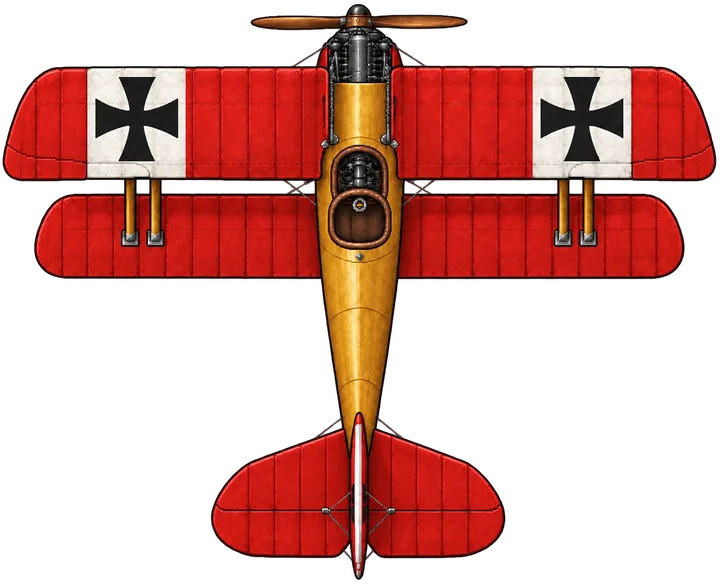
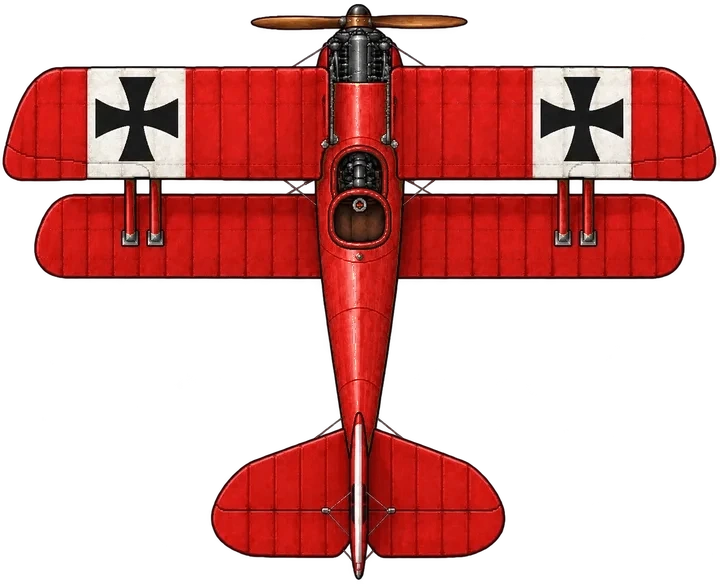
deploy-slim: sync from main 456d0ae

Changed region(s): [[0.4278, 0.1233, 0.5806, 0.7705], [0.1528, 0.3082, 0.2444, 0.4007], [0.7639, 0.3082, 0.825, 0.4007]]

diff --git a/aircraft.js b/aircraft.js
@@ -29,9 +29,9 @@ export function clearAircraftMatte(key,data,w,h){
 }
 // Approximate real wingspans in metres; drawn width scales ~ (span/8.5)^0.8 so
 // two-seaters read larger than scouts while staying inside the 144x160 canvas.
-const WINGSPAN_M={fokker:7.19,fokker_standard:7.19,fokker_f1:7.19,fokker_jacobs:7.19,nieuport11:7.52,nieuport28:8,spad12:8,sopwith:8.08,pup:8.08,se5a:8.11,mccudden_se5a:8.11,nieuport:8.16,nieuport_italian:8.16,nieuport24:8.21,nungesser_nieuport24:8.21,spad:8.25,fokkerdv:8.34,albatros_d2:8.5,camel:8.53,airco_dh2:8.61,hanriot:8.7,fokkerd7:8.9,loewenhardt_fokkerd7:8.9,albatros:9.05,albatros_d5a:9.05,baron_albatros:9.05,wolff_albatros:9.05,hansa_brandenburg_cc:9.25,pfalz_d3a:9.4,berthold_pfalz:9.4,goering_fokkerd7:8.9,collishaw_sopwith:8.08,guynemer_spad:8.25,udet_fokkerdv:8.34,baracca_nieuport:8.16,eindecker:9.52,bristol_m1:9.8,dolphin:9.91,snipe:9.13,strutter:10.21,halberstadt_duo:10.77,gunbus:11.17,morane_ai:11.21,hannover_cl3:11.7,be2c:11.28,bristol_duo:11.96,aviatik:12.4,re8:12.98,dfw_cv:13.27,dh4:13.21,fe2b:14.55,junkers_j1:16,re7:17.45,gotha:23.7,roland_d6:9.42,siemens_d4:8.35,rickenbacker_spad:8.25,ball_se5a:8.11,barker_snipe:9.13,luke_nieuport28:8,brumowski_albatros:9.05,gontermann_fokker:7.19,macchi_m5:11.9,macchi_m3:15.95,lohner_l:16.2,aeg_g4:18.4,friedrichshafen_g3:23.7,breguet14:14.36,voisin8:17.92,caudron_g4:17.2,ssw_d3:8.43,pfalz_d12:9,phonix_d1:9.75,aviatik_d1:9,junkers_d1:9,ansaldo_sva5:9.1,hb_w29:13.5,ff33:16,felixstowe_f2:29.05,shuttelanz_sl11:22.9,parseval:11.2,caquot_balloon:13.4,lothar_dr1:7.19,beaulieu_dr1:7.19,mai_dr1:7.19,hantelmann_dr1:7.19,jasta11_fokkerd7:8.9,jasta18_fokkerd7:8.9,jasta27_fokkerd7:8.9,jasta43_fokkerd7:8.9,gabriel_fokkerd7:8.9,jasta4_albatros:9.05,jasta5_albatros:9.05,jasta78b_albatros:9.05,kissenberth_albatros:9.05,allmenroder_albatros:9.05,baeumer_pfalz:9,degelow_pfalz:9,linke_crawford_phonix:9.75,kiss_phonix:9.75,arigi_aviatik:9,gotha_night:23.7,staaken_dark:42.3,brown_camel:8.53,mcelroy_camel:8.53,dazzle_camel:8.53,lufbery_nieuport17:8.16,dorme_nieuport:8.16,meulemeester_nieuport:8.16,eagle_nieuport28:8,coppens_hanriot:8.7,madon_spad:8.25,tarascon_spad:8.25,boyau_spad:8.25,hatring_spad:8.25,springs_se5a:8.11,proctor_se5a:8.11,checker_se5a:8.11,ruffo_sva5:9.1,pierozzi_macchi:11.9};
+const WINGSPAN_M={fokker:7.19,fokker_standard:7.19,fokker_f1:7.19,fokker_jacobs:7.19,nieuport11:7.52,nieuport28:8,spad12:8,sopwith:8.08,pup:8.08,se5a:8.11,mccudden_se5a:8.11,nieuport:8.16,nieuport_italian:8.16,nieuport24:8.21,nungesser_nieuport24:8.21,spad:8.25,fokkerdv:8.34,albatros_d2:8.5,camel:8.53,airco_dh2:8.61,hanriot:8.7,fokkerd7:8.9,loewenhardt_fokkerd7:8.9,albatros:9.05,albatros_d5a:9.05,baron_albatros:9.05,wolff_albatros:9.05,hansa_brandenburg_cc:9.25,pfalz_d3a:9.4,berthold_pfalz:9.4,goering_fokkerd7:8.9,collishaw_sopwith:8.08,guynemer_spad:8.25,udet_fokkerdv:8.34,baracca_nieuport:8.16,eindecker:9.52,bristol_m1:9.8,dolphin:9.91,snipe:9.13,strutter:10.21,halberstadt_duo:10.77,gunbus:11.17,morane_ai:11.21,hannover_cl3:11.7,be2c:11.28,bristol_duo:11.96,aviatik:12.4,re8:12.98,dfw_cv:13.27,dh4:13.21,fe2b:14.55,junkers_j1:16,re7:17.45,gotha:23.7,roland_d6:9.42,siemens_d4:8.35,rickenbacker_spad:8.25,ball_se5a:8.11,barker_snipe:9.13,luke_nieuport28:8,brumowski_albatros:9.05,gontermann_fokker:7.19,macchi_m5:11.9,macchi_m3:15.95,lohner_l:16.2,aeg_g4:18.4,friedrichshafen_g3:23.7,breguet14:14.36,voisin8:17.92,caudron_g4:17.2,ssw_d3:8.43,pfalz_d12:9,phonix_d1:9.75,aviatik_d1:9,junkers_d1:9,ansaldo_sva5:9.1,hb_w29:13.5,ff33:16,felixstowe_f2:29.05,shuttelanz_sl11:22.9,parseval:11.2,caquot_balloon:13.4,lothar_dr1:7.19,beaulieu_dr1:7.19,mai_dr1:7.19,hantelmann_dr1:7.19,jasta11_fokkerd7:8.9,jasta18_fokkerd7:8.9,jasta27_fokkerd7:8.9,jasta43_fokkerd7:8.9,gabriel_fokkerd7:8.9,jasta4_albatros:9.05,jasta5_albatros:9.05,jasta78b_albatros:9.05,kissenberth_albatros:9.05,allmenroder_albatros:9.05,jasta11a_albatros:9.05,jasta11b_albatros:9.05,jasta11c_albatros:9.05,jasta11d_albatros:9.05,baeumer_pfalz:9,degelow_pfalz:9,linke_crawford_phonix:9.75,kiss_phonix:9.75,arigi_aviatik:9,gotha_night:23.7,staaken_dark:42.3,brown_camel:8.53,mcelroy_camel:8.53,dazzle_camel:8.53,lufbery_nieuport17:8.16,dorme_nieuport:8.16,meulemeester_nieuport:8.16,eagle_nieuport28:8,coppens_hanriot:8.7,madon_spad:8.25,tarascon_spad:8.25,boyau_spad:8.25,hatring_spad:8.25,springs_se5a:8.11,proctor_se5a:8.11,checker_se5a:8.11,ruffo_sva5:9.1,pierozzi_macchi:11.9};
 const spriteScale=key=>WINGSPAN_M[key]==null?1:Math.min(1.18,Math.max(.8,(WINGSPAN_M[key]/8.5)**.8));
-const PAINTED_KEYS=['fokker','fokker_standard','fokker_f1','albatros','camel','sopwith','nieuport','nieuport_italian','spad12','fokkerdv','re7','fokkerd7','eindecker','se5a','bristol_duo','halberstadt_duo','baron_albatros','albatros_d2','nieuport24','pfalz_d3a','airco_dh2','spad','be2c','aviatik','strutter','nieuport11','nieuport28','hanriot','pup','dh5','re8','dh4','albatros_d5a','fokker_jacobs','goering_fokkerd7','collishaw_sopwith','guynemer_spad','udet_fokkerdv','baracca_nieuport','berthold_pfalz','siemens_d4','roland_d6','hannover_cl3','dfw_cv','junkers_j1','gotha','bristol_m1','dolphin','snipe','fe2b','gunbus','morane_ai','rickenbacker_spad','ball_se5a','barker_snipe','luke_nieuport28','brumowski_albatros','gontermann_fokker','hansa_brandenburg_cc','lohner_l','macchi_m3','macchi_m5','wolff_albatros','loewenhardt_fokkerd7','mccudden_se5a','nungesser_nieuport24','aeg_g4','friedrichshafen_g3','breguet14','voisin8','caudron_g4','ssw_d3','pfalz_d12','phonix_d1','aviatik_d1','junkers_d1','ansaldo_sva5','hb_w29','ff33','felixstowe_f2','shuttelanz_sl11','parseval','caquot_balloon','staaken','handley-page','jasta4_albatros','jasta5_albatros','jasta78b_albatros','kissenberth_albatros','allmenroder_albatros','lothar_dr1','beaulieu_dr1','mai_dr1','hantelmann_dr1','jasta11_fokkerd7','jasta18_fokkerd7','jasta43_fokkerd7','gabriel_fokkerd7','jasta27_fokkerd7','baeumer_pfalz','degelow_pfalz','linke_crawford_phonix','kiss_phonix','arigi_aviatik','gotha_night','staaken_dark','brown_camel','mcelroy_camel','dazzle_camel','lufbery_nieuport17','dorme_nieuport','meulemeester_nieuport','eagle_nieuport28','coppens_hanriot','madon_spad','tarascon_spad','boyau_spad','hatring_spad','springs_se5a','proctor_se5a','checker_se5a','ruffo_sva5','pierozzi_macchi'];
+const PAINTED_KEYS=['fokker','fokker_standard','fokker_f1','albatros','camel','sopwith','nieuport','nieuport_italian','spad12','fokkerdv','re7','fokkerd7','eindecker','se5a','bristol_duo','halberstadt_duo','baron_albatros','albatros_d2','nieuport24','pfalz_d3a','airco_dh2','spad','be2c','aviatik','strutter','nieuport11','nieuport28','hanriot','pup','dh5','re8','dh4','albatros_d5a','fokker_jacobs','goering_fokkerd7','collishaw_sopwith','guynemer_spad','udet_fokkerdv','baracca_nieuport','berthold_pfalz','siemens_d4','roland_d6','hannover_cl3','dfw_cv','junkers_j1','gotha','bristol_m1','dolphin','snipe','fe2b','gunbus','morane_ai','rickenbacker_spad','ball_se5a','barker_snipe','luke_nieuport28','brumowski_albatros','gontermann_fokker','hansa_brandenburg_cc','lohner_l','macchi_m3','macchi_m5','wolff_albatros','loewenhardt_fokkerd7','mccudden_se5a','nungesser_nieuport24','aeg_g4','friedrichshafen_g3','breguet14','voisin8','caudron_g4','ssw_d3','pfalz_d12','phonix_d1','aviatik_d1','junkers_d1','ansaldo_sva5','hb_w29','ff33','felixstowe_f2','shuttelanz_sl11','parseval','caquot_balloon','staaken','handley-page','jasta4_albatros','jasta5_albatros','jasta78b_albatros','kissenberth_albatros','allmenroder_albatros','jasta11a_albatros','jasta11b_albatros','jasta11c_albatros','jasta11d_albatros','lothar_dr1','beaulieu_dr1','mai_dr1','hantelmann_dr1','jasta11_fokkerd7','jasta18_fokkerd7','jasta43_fokkerd7','gabriel_fokkerd7','jasta27_fokkerd7','baeumer_pfalz','degelow_pfalz','linke_crawford_phonix','kiss_phonix','arigi_aviatik','gotha_night','staaken_dark','brown_camel','mcelroy_camel','dazzle_camel','lufbery_nieuport17','dorme_nieuport','meulemeester_nieuport','eagle_nieuport28','coppens_hanriot','madon_spad','tarascon_spad','boyau_spad','hatring_spad','springs_se5a','proctor_se5a','checker_se5a','ruffo_sva5','pierozzi_macchi'];
 const HANGAR_KEYS=['fokker','fokker_f1','fokker_standard','fokker_jacobs','baron_albatros','albatros','albatros_d2','eindecker','camel','sopwith','collishaw_sopwith','nieuport','nieuport_italian','nieuport24','baracca_nieuport','nungesser_nieuport24','luke_nieuport28','fokkerdv','udet_fokkerdv','spad','spad12','guynemer_spad','rickenbacker_spad','re7','fokkerd7','goering_fokkerd7','loewenhardt_fokkerd7','se5a','mccudden_se5a','ball_se5a','bristol_duo','halberstadt_duo','barker_snipe','brumowski_albatros','gontermann_fokker','wolff_albatros','berthold_pfalz'];
 const loadPainted=key=>new Promise(resolve=>{
  const img=new Image();img.onload=()=>{

diff --git a/atmosphere-role3.js b/atmosphere-role3.js
@@ -19,7 +19,7 @@ export function drawGasVeil3(c,z,x,y,time=0,boundary=true){
  roleDraw(c,'gasCloud'+frame,x,y,diameter,diameter,turn,.95*fade);
  roleDraw(c,'gasCloud'+Math.min(3,frame+1),x+Math.cos(turn+2)*z.r*.28,y+Math.sin(turn+2)*z.r*.22,diameter*.8,diameter*.68,-turn,.66*fade);
  // Green cast over the smoke atlas — reads as gas, not fog.
- c.save();c.globalAlpha*=fade*.34;const grad=c.createRadialGradient(x,y,diameter*.12,x,y,diameter*.58);grad.addColorStop(0,'#6da32e');grad.addColorStop(1,'#47682000');c.fillStyle=grad;c.beginPath();c.arc(x,y,diameter*.6,0,Math.PI*2);c.fill();c.restore();
+ if(c.createRadialGradient){c.save();c.globalAlpha*=fade*.34;const grad=c.createRadialGradient(x,y,diameter*.12,x,y,diameter*.58);grad.addColorStop(0,'#6da32e');grad.addColorStop(1,'#47682000');c.fillStyle=grad;c.beginPath();c.arc(x,y,diameter*.6,0,Math.PI*2);c.fill();c.restore();}
  if(boundary){c.save();c.globalAlpha*=fade*.55;c.strokeStyle='#a2a36c';c.lineWidth=1.2;c.setLineDash([5,9]);c.beginPath();c.arc(x,y,z.r,0,Math.PI*2);c.stroke();c.restore();}
  return true;
 }

diff --git a/headon-stageboss-patterns.js b/headon-stageboss-patterns.js
@@ -710,7 +710,7 @@ class FormationAceBoss extends PatternBoss {
 export class JastaCircus extends FormationAceBoss {
   constructor(options) {
     super({...options,kind:'jasta11-circus',wingman:{minion:'circus-wing',behavior:'circus-escort',count:4,respawnEvery:3.0,life:90,fire:1.05,maxSpeed:235,
-      liveries:['wolff_albatros','allmenroder_albatros','kissenberth_albatros','jasta4_albatros','jasta5_albatros']}});
+      liveries:['jasta11a_albatros','jasta11b_albatros','jasta11c_albatros','jasta11d_albatros']}});
     this.speed=196;this.aceCycle=0;
   }
   update(dt,{players,bounds}) {
